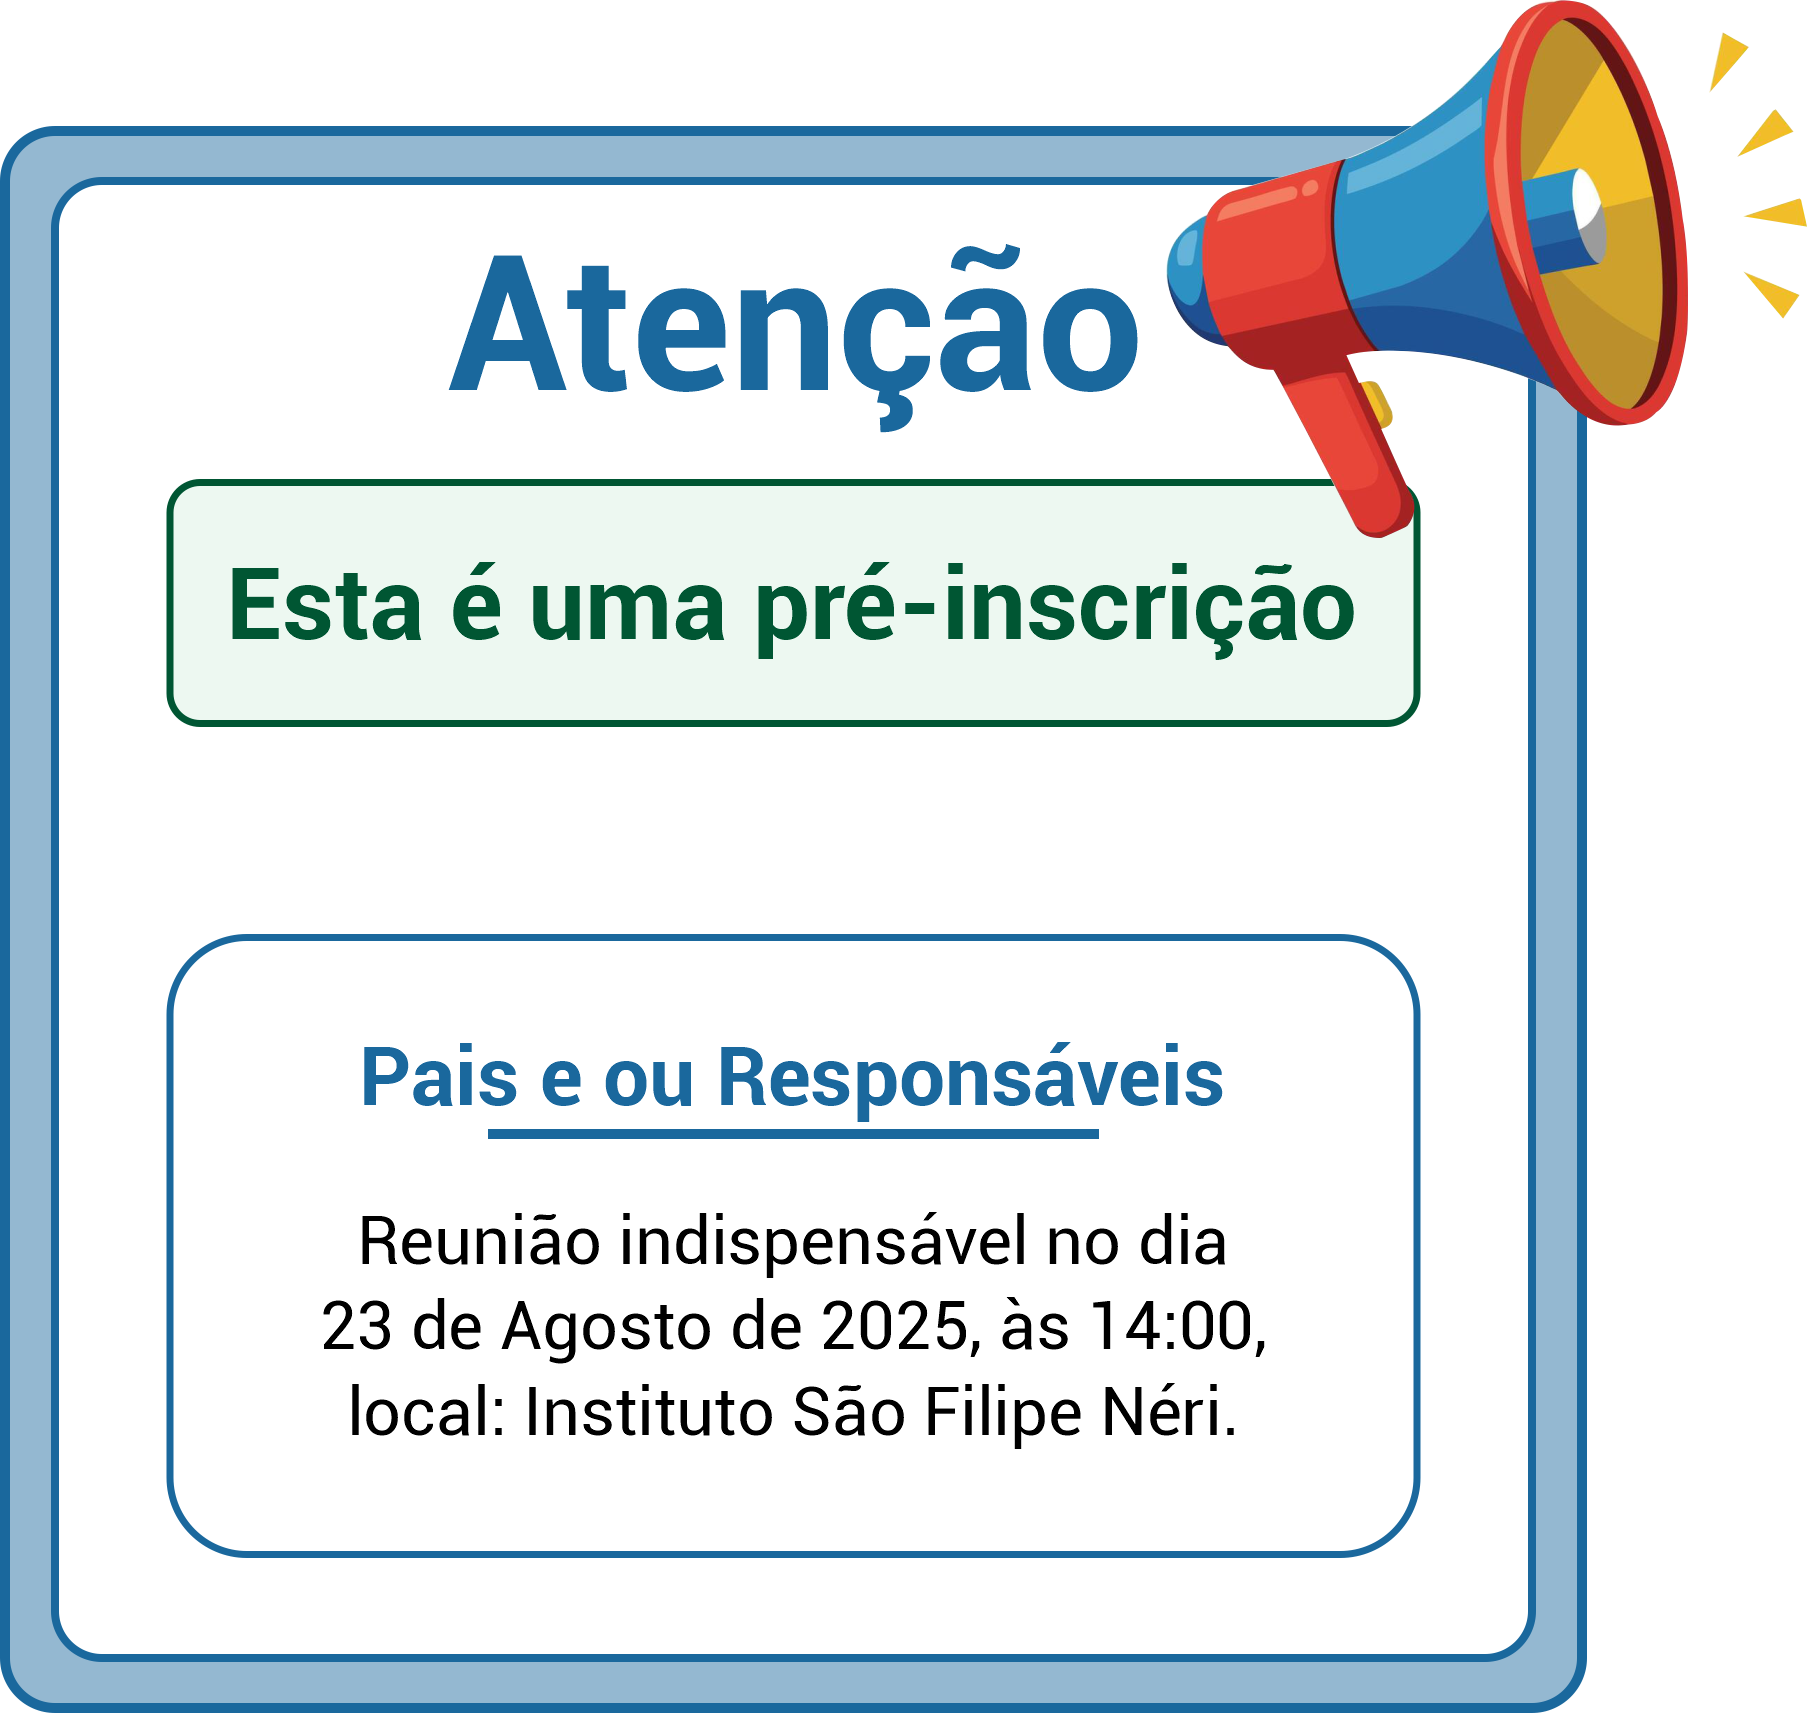
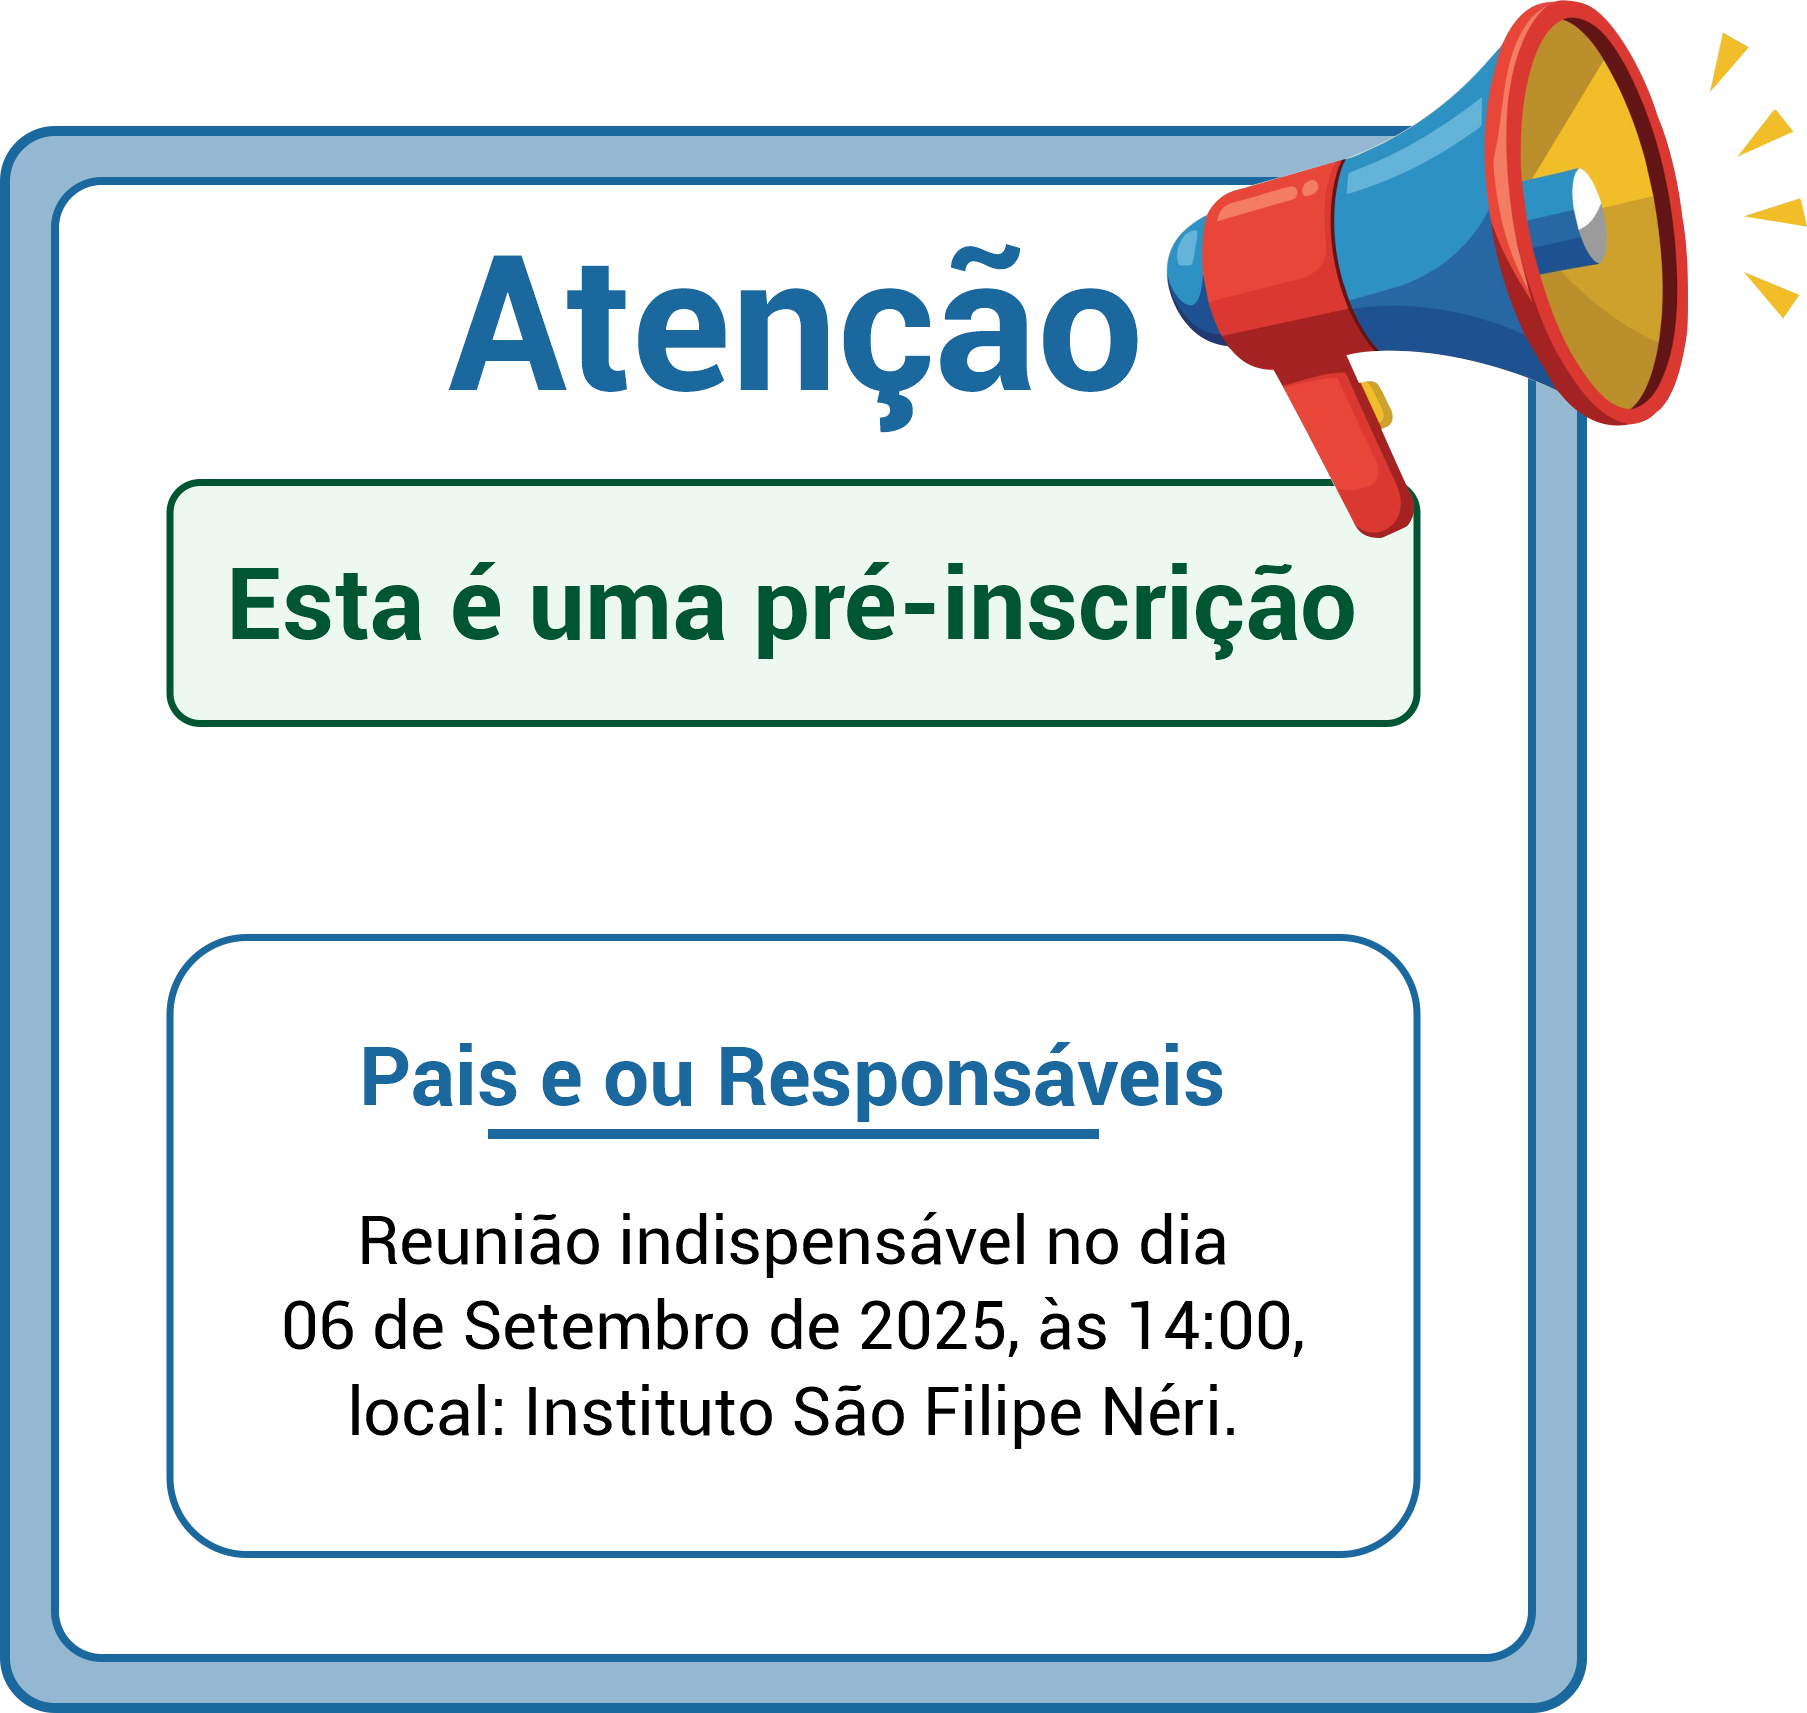
alterando img aviso pre inscricao

Changed region(s): [[0.155, 0.7426, 0.7128, 0.8044]]

diff --git a/Componentes/headBasic.html b/Componentes/headBasic.html
@@ -3,13 +3,13 @@
     <meta name="viewport" content="width=device-width, initial-scale=1, maximum-scale=1, user-scalable=no">
 
     <!--Bootstrap-->
-    <link rel="stylesheet" href="/css/bootstrap.min.css?16">
+    <link rel="stylesheet" href="/css/bootstrap.min.css?17">
     <link rel="stylesheet" href="https://cdn.jsdelivr.net/npm/bootstrap-icons@1.10.5/font/bootstrap-icons.css">
 
     <!--CSS LOCAL-->
-    <link rel="shortcut icon" href="/img/img-logo/EspiritoSanto Azul.svg?16" type="image/x-icon">
-    <link rel="stylesheet" href="/css/menu.css?16">
-    <link rel="stylesheet" href="/css/footer.css?16">
+    <link rel="shortcut icon" href="/img/img-logo/EspiritoSanto Azul.svg?17" type="image/x-icon">
+    <link rel="stylesheet" href="/css/menu.css?17">
+    <link rel="stylesheet" href="/css/footer.css?17">
     
     <!--JQUERY (Necessario carregar Antes da pagina para funcionamento das mascaras)-->
     <script src="https://code.jquery.com/jquery-3.6.1.min.js"></script>
@@ -17,8 +17,8 @@
 
 
     <!--JS LOCAL-->
-    <script src="/js/javascript.js?16" defer></script>
+    <script src="/js/javascript.js?17" defer></script>
 
     <!--JS bootstrap-->
-    <script src="/js/bootstrap.bundle.min.js?16" defer></script>
+    <script src="/js/bootstrap.bundle.min.js?17" defer></script>
 </head>

diff --git a/Componentes/IndexDepoimentos.html b/Componentes/IndexDepoimentos.html
@@ -4,7 +4,7 @@
     <div class="row" id="depoimentos-div">
         <aside class="col-12 col-md-3">
             <div class="img-div">
-                <img class="img-fluid " src="/img/depoimento-12.webp?16" alt="foto">
+                <img class="img-fluid " src="/img/depoimento-12.webp?17" alt="foto">
             </div> 
             <h4>Eduardo</h4> 
 
@@ -12,14 +12,14 @@
         </aside>
         <aside class="col-12 col-md-3">
             <div class="img-div">
-                <img class="img-fluid " src="/img/depoimento-2.webp?16" alt="">
+                <img class="img-fluid " src="/img/depoimento-2.webp?17" alt="">
             </div>
             <h4>Gabriel</h4>
             <p>... </p>
         </aside>
         <aside class="col-12 col-md-3">
             <div class="img-div">
-                <img class="img-fluid " src="/img/depoimento-3.webp?16" alt="">
+                <img class="img-fluid " src="/img/depoimento-3.webp?17" alt="">
             </div>
             <h4>Julia</h4>
             <p>...</p>

diff --git a/Componentes/footer.html b/Componentes/footer.html
@@ -4,7 +4,7 @@
 
         <section class="col-6 col-md-3 primeiraColuna">
 
-            <img class="imgFooter" src="/img/img-logo/LOGO-BRANCO-PNG.png?16" alt="LOGO-BRANCO-PNG">
+            <img class="imgFooter" src="/img/img-logo/LOGO-BRANCO-PNG.png?17" alt="LOGO-BRANCO-PNG">
 
             <nav class="col-6 iconsFooter">
                 <a href="#"><i class="bi bi-facebook"></i></a>

diff --git a/preInscricaoAluno.php b/preInscricaoAluno.php
@@ -12,7 +12,7 @@
     include("Componentes/headBasic.html");
     ?>
 
-    <link rel="stylesheet" href="/css/formularioDoador.css?16">
+    <link rel="stylesheet" href="/css/formularioDoador.css?17">
 </head>
 
 
@@ -24,10 +24,10 @@
 
 
 
-        <div class="position-fixed z-index-img" id="modalImg">
-            <img class="img-fluid " src="/img/aviso.png?16" alt="">
+        <div class="position-fixed z-index-img" id="modalImg" onclick="fecharModal()">
+            <img class="img-fluid " src="/img/aviso.png?17" alt="">
             <br>
-            <button class="text-center btn btn-primary" onclick="fecharModal()">X</button>
+            <button class="text-center btn btn-primary">X</button>
         </div>
 
 
@@ -273,6 +273,6 @@
         
     }
 </script>
-<script type="text/javascript" src="/js/cep.js?16"></script>
+<script type="text/javascript" src="/js/cep.js?17"></script>
 
 </html>

diff --git a/formularioDoadorPJ.php b/formularioDoadorPJ.php
@@ -21,7 +21,7 @@
     include("Componentes/headBasic.html");
     ?>
 
-    <link rel="stylesheet" href="/css/formularioDoador.css?16">
+    <link rel="stylesheet" href="/css/formularioDoador.css?17">
 </head>
 
 
@@ -300,7 +300,7 @@
             </form>
 
             <div class="col-12 p-0 col-md-5 col-img">
-                <img src="/img/img-banner/img-robotica01-azul.webp?16" class="w-75" alt="">
+                <img src="/img/img-banner/img-robotica01-azul.webp?17" class="w-75" alt="">
             </div>
             
             <div class="col-10 dificuldade-cadastro">
@@ -370,6 +370,6 @@
         return true; // Permite o envio do formulário
     }
 </script>
-<script type="text/javascript" src="/js/cep.js?16"></script>
+<script type="text/javascript" src="/js/cep.js?17"></script>
 </html>
 

diff --git a/formularioDoador.php b/formularioDoador.php
@@ -21,7 +21,7 @@
     include("Componentes/headBasic.html");
     ?>
 
-    <link rel="stylesheet" href="/css/formularioDoador.css?16">
+    <link rel="stylesheet" href="/css/formularioDoador.css?17">
 </head>
 
 
@@ -290,7 +290,7 @@
             </form>
 
             <div class="col-12 p-0 col-md-5 col-img">
-                <img src="/img/img-banner/criancas-fazendo-robo.webp?16" alt="">
+                <img src="/img/img-banner/criancas-fazendo-robo.webp?17" alt="">
             </div>
             
             <div class="col-10 dificuldade-cadastro">
@@ -359,6 +359,6 @@
         return true; // Permite o envio do formulário
     }
 </script>
-<script type="text/javascript" src="/js/cep.js?16"></script>
+<script type="text/javascript" src="/js/cep.js?17"></script>
 </html>
 

diff --git a/Doacoes.php b/Doacoes.php
@@ -9,7 +9,7 @@
     <?php
     include("Componentes/headBasic.html");
     ?>
-    <link rel="stylesheet" href="/css/styleDoacoes.css?16">
+    <link rel="stylesheet" href="/css/styleDoacoes.css?17">
 
     <title>ISFN | Doações</title>
 
@@ -73,7 +73,7 @@
                 <div class="col-11 col-md-5 qrcode">
                     <h4>Seja a mão que auxilia a formação de novos líderes</h4>
 
-                    <img id="img_qrcode" src="/img/img-doacoes/QR/outro.png?16" alt="QrCode pix">
+                    <img id="img_qrcode" src="/img/img-doacoes/QR/outro.png?17" alt="QrCode pix">
 
                     <div class="div-copiar">
                         <p>PIX COPIA/COLA</p>

diff --git a/index.php b/index.php
@@ -9,10 +9,10 @@
     <?php
     include("Componentes/headBasic.html");
     ?>
-    <link rel="stylesheet" href="/css/banner.css?16">
-    <link rel="stylesheet" href="/css/IndexSobre.css?16">
-    <link rel="stylesheet" href="/css/IndexApoiar.css?16">
-<!--    <link rel="stylesheet" href="/css/IndexDepoimentos.css?16">   -->
+    <link rel="stylesheet" href="/css/banner.css?17">
+    <link rel="stylesheet" href="/css/IndexSobre.css?17">
+    <link rel="stylesheet" href="/css/IndexApoiar.css?17">
+<!--    <link rel="stylesheet" href="/css/IndexDepoimentos.css?17">   -->
 
     <title>Instituto São Filipe Neri</title>
 

diff --git a/Componentes/menu.php b/Componentes/menu.php
@@ -57,8 +57,8 @@
 
         <div class="col-7 col-md-4" id="logo"><!--Logo -->
             <a href="/index.php">
-                <img class="img-logo-normal" src="/img/img-logo/LOGO-AZUL-PNG.png?16" />
-                <img class="img-logo-mini" src="/img/img-logo/EspiritoSantoAzul.png?16" />
+                <img class="img-logo-normal" src="/img/img-logo/LOGO-AZUL-PNG.png?17" />
+                <img class="img-logo-mini" src="/img/img-logo/EspiritoSantoAzul.png?17" />
             </a>
         </div>
 

diff --git a/adm/edit.php b/adm/edit.php
@@ -253,5 +253,5 @@
         $("#cpf").mask("000.000.000-00");
         $("#cnpj").mask("00.000.000/0000-00");
     </script>
-    <script type="text/javascript" src="/js/cep.js?16"></script>
+    <script type="text/javascript" src="/js/cep.js?17"></script>
 </body>

diff --git a/adm/verDoador.php b/adm/verDoador.php
@@ -238,5 +238,5 @@
         $("#cpfInp").mask("000.000.000-00");
         
     </script>
-    <script type="text/javascript" src="/js/cep.js?16"></script>
+    <script type="text/javascript" src="/js/cep.js?17"></script>
 </body>

diff --git a/adm/editIncricao.php b/adm/editIncricao.php
@@ -248,5 +248,5 @@
     $("#docAluno").mask("000.000.000-00");
 
     </script>
-    <script type="text/javascript" src="/js/cep.js?16"></script>
+    <script type="text/javascript" src="/js/cep.js?17"></script>
 </body>
